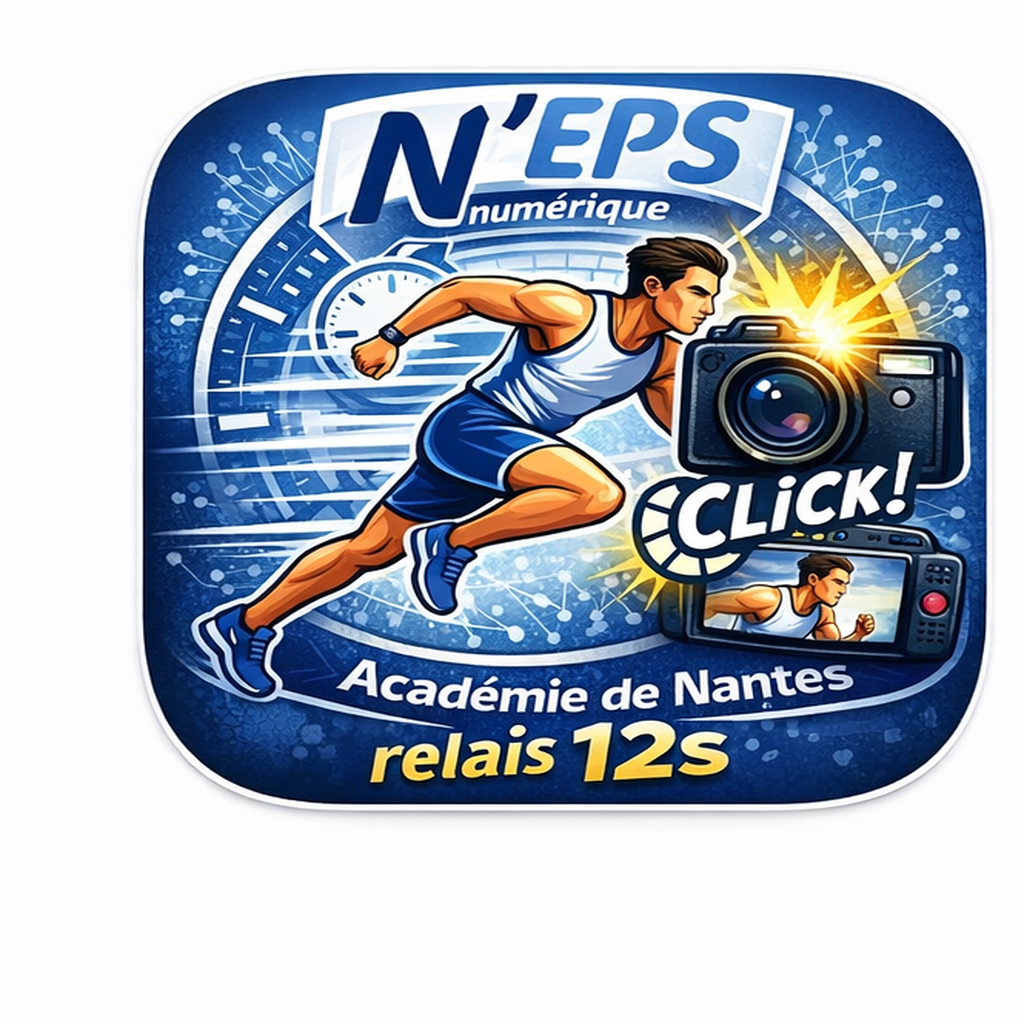
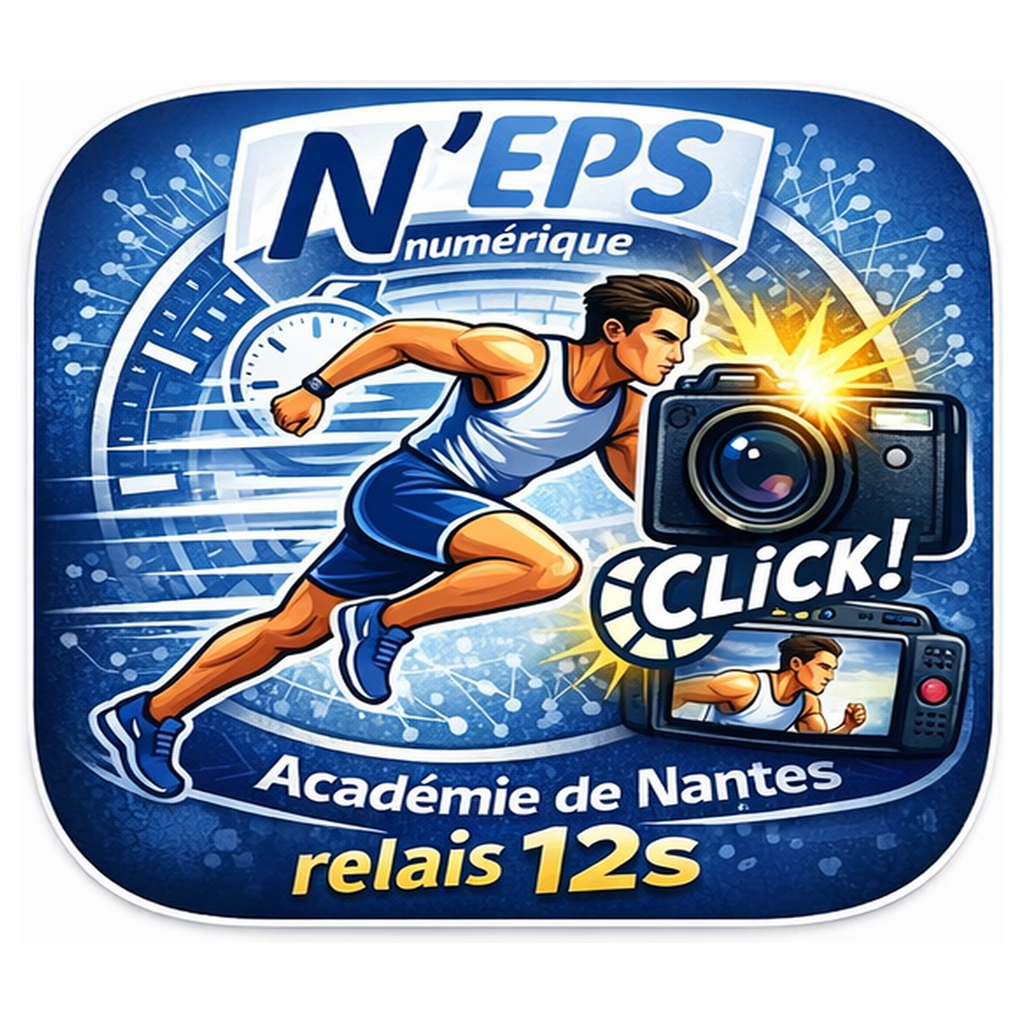
Add files via upload

diff --git a/index.html b/index.html
@@ -15,7 +15,7 @@
     *{box-sizing:border-box} html,body{margin:0;min-height:100%;background:radial-gradient(circle at top,#12376f 0%,var(--bg2) 35%,var(--bg1) 100%);color:var(--text);font-family:system-ui,-apple-system,Segoe UI,Roboto,Arial,sans-serif} body{min-height:100vh}
     .app{width:min(100%,1120px);margin:0 auto;padding:14px 14px 72px;position:relative}
     .header{display:flex;align-items:center;justify-content:space-between;gap:12px;margin-bottom:14px}
-    .brand{display:flex;align-items:center;gap:14px;min-width:0}.brand img.logo{width:clamp(82px,12vw,110px);height:clamp(82px,12vw,110px);object-fit:cover;border-radius:24px;box-shadow:0 10px 22px rgba(0,0,0,.28)}
+    .brand{display:flex;align-items:center;gap:14px;min-width:0}.brand img.logo{width:clamp(92px,14vw,126px);height:clamp(92px,14vw,126px);object-fit:cover;object-position:center;border-radius:24px;box-shadow:0 10px 22px rgba(0,0,0,.28);display:block;background:transparent}
     .brand-text h1{margin:0;font-size:clamp(1.55rem,3.2vw,2.5rem);line-height:1}.brand-text .sub{margin-top:6px;color:var(--muted);font-weight:700;letter-spacing:.04em;text-transform:uppercase;font-size:clamp(.82rem,1.6vw,1rem)}
     .top-actions{display:flex;gap:10px;align-items:center;flex-wrap:wrap;justify-content:flex-end}.grid{display:grid;grid-template-columns:1fr;gap:16px}@media (min-width:960px){.grid{grid-template-columns:390px 1fr}}
     .card{background:var(--card);border:1px solid var(--card-border);border-radius:26px;padding:16px;box-shadow:0 14px 30px rgba(0,0,0,.24);backdrop-filter:blur(8px)}.card h2{margin:0 0 14px;font-size:1.08rem}
@@ -153,8 +153,6 @@
     let photoIndex = 0;
     let galleryItems = [];
     let lastObjectUrl = null;
-    let lastObjectUrl = null;
-    const galleryItems = [];
 
     function fmt(seconds) {
       const m = Math.floor(seconds / 60).toString().padStart(2, '0');

diff --git a/sw.js b/sw.js
@@ -1,4 +1,4 @@
-const CACHE_NAME = 'relais-12s-v3';
+const CACHE_NAME = 'relais-12s-v7';
 const ASSETS = [
   './', './index.html', './manifest.json', './sw.js', './icon-square.png', './icon-192.png', './icon-512.png'
 ];
